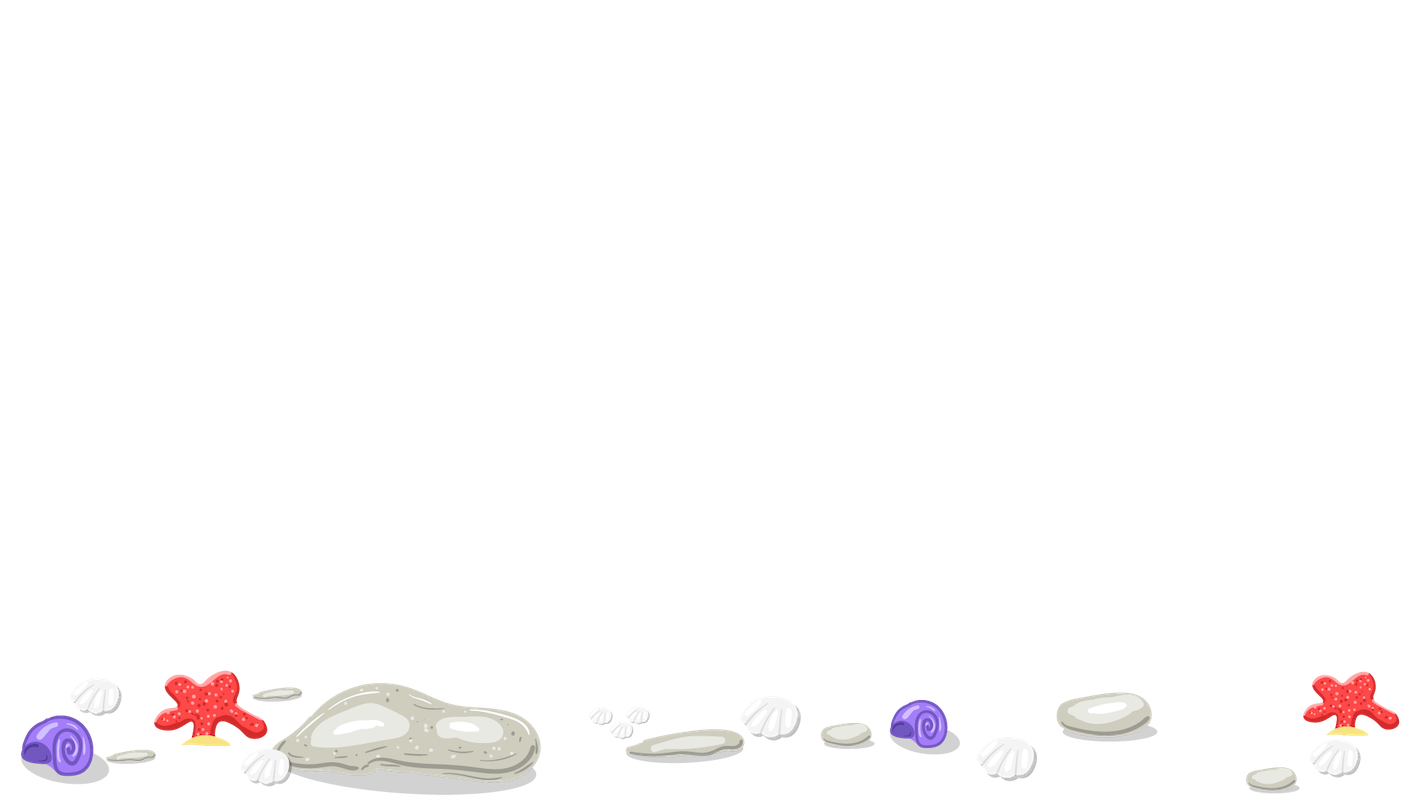
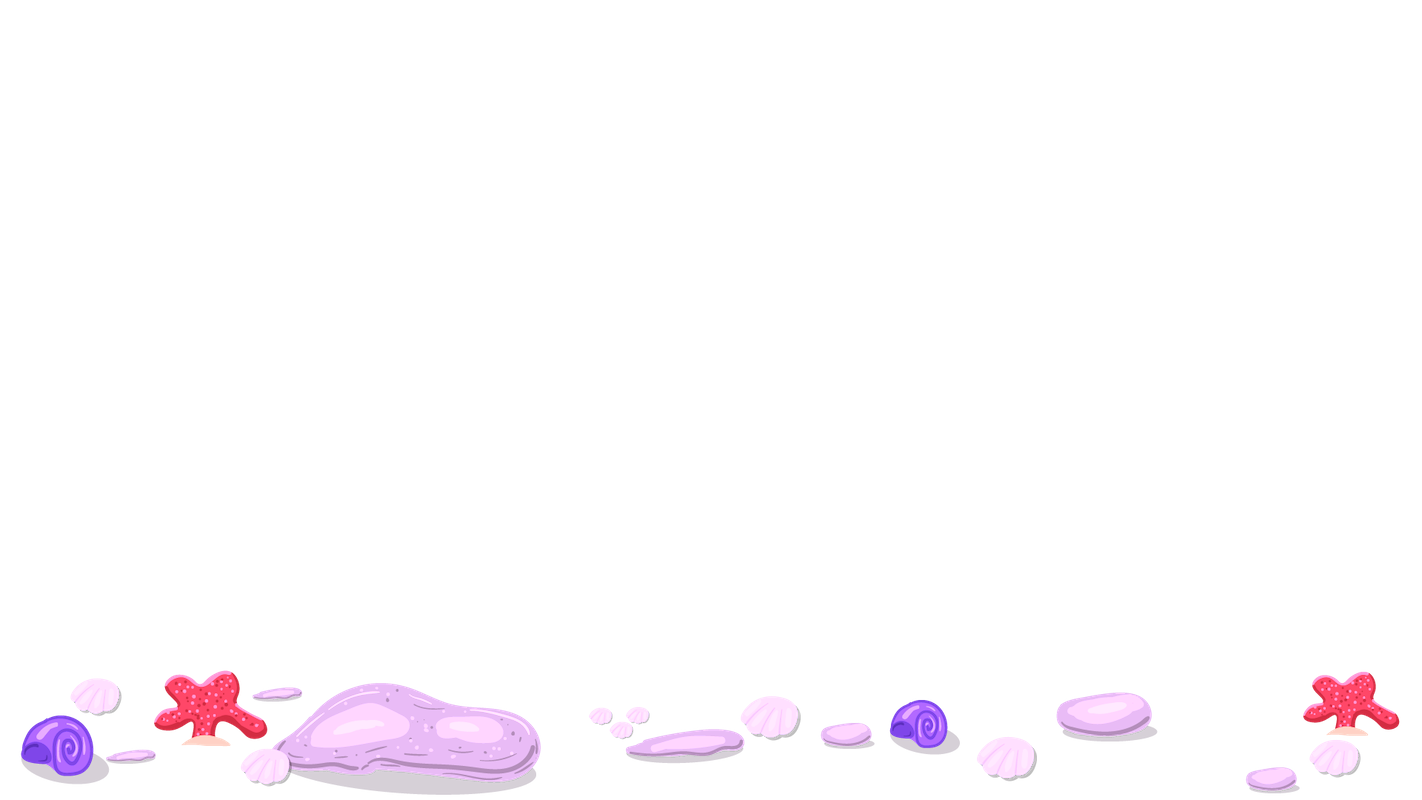
Hue the dark beach theme and add a screenshot

diff --git a/README.md b/README.md
@@ -1,6 +1,6 @@
 # VS Code Pets
 
-![icon](https://github.com/tonybaloney/vscode-pet/raw/master/icon.png)
+![icon](https://github.com/tonybaloney/vscode-pets/raw/master/icon.png)
 
 Puts a small, bored cat, an enthusiastic dog, a feisty snake, a rubber duck, or Clippy 📎 in your code editor.
 
@@ -8,7 +8,7 @@ Puts a small, bored cat, an enthusiastic dog, a feisty snake, a rubber duck, or 
 
 Run the "Start pet coding session" action to see the panel.
 
-![screenshot](https://github.com/tonybaloney/vscode-pet/raw/master/screenshots/screenshot.gif)
+![screenshot](https://github.com/tonybaloney/vscode-pets/raw/master/screenshots/screenshot.gif)
 
 ## Installation
 
@@ -22,7 +22,7 @@ Run the "Start pet coding session" command (`vscode-pets.start`)
 
 You can choose either pet type and pet color:
 
-![screenshot2](https://github.com/tonybaloney/vscode-pet/raw/master/screenshots/screenshot-2.gif)
+![screenshot2](https://github.com/tonybaloney/vscode-pets/raw/master/screenshots/screenshot-2.gif)
 
 * Snake can only be green
 * Rubber duck & Zappy can only be yellow
@@ -33,7 +33,7 @@ You can choose either pet type and pet color:
 
 Pets will interact with you
 
-![screenshot3](https://github.com/tonybaloney/vscode-pet/raw/master/screenshots/screenshot-3.gif)
+![screenshot3](https://github.com/tonybaloney/vscode-pets/raw/master/screenshots/screenshot-3.gif)
 
 ## Throwing a ball
 
@@ -41,7 +41,7 @@ Play catch with your pet! Run the "Throw ball" command (`vscode-pets.throw-ball`
 
 * Rocky will not run & catch a ball. Have you ever seen a rock run after a ball? Neither have we.
 
-![screenshot4](https://github.com/tonybaloney/vscode-pet/raw/master/screenshots/screenshot-4.gif)
+![screenshot4](https://github.com/tonybaloney/vscode-pets/raw/master/screenshots/screenshot-4.gif)
 
 ## Adding extra pets
 
@@ -59,11 +59,15 @@ You can remove specific pets by running the "Remove pet" command (`vscode-pets.d
 
 Configure `vscode-pets.theme` to `"forest"` and let your pets play in a spooky forest.
 
-![forest](https://github.com/tonybaloney/vscode-pet/raw/master/screenshots/forest.gif)
+![forest](https://github.com/tonybaloney/vscode-pets/raw/master/screenshots/forest.gif)
 
 Set `vscode-pets.theme` to `"castle"` for them to roam the ramparts!
 
-![castle](https://github.com/tonybaloney/vscode-pet/raw/master/screenshots/castle.gif)
+![castle](https://github.com/tonybaloney/vscode-pets/raw/master/screenshots/castle.gif)
+
+Set `vscode-pets.theme` to `"beach"` for your friends to play by the ocean.
+
+![beach](https://github.com/tonybaloney/vscode-pets/raw/master/screenshots/beach-pose.png)
 
 ## More options
 
